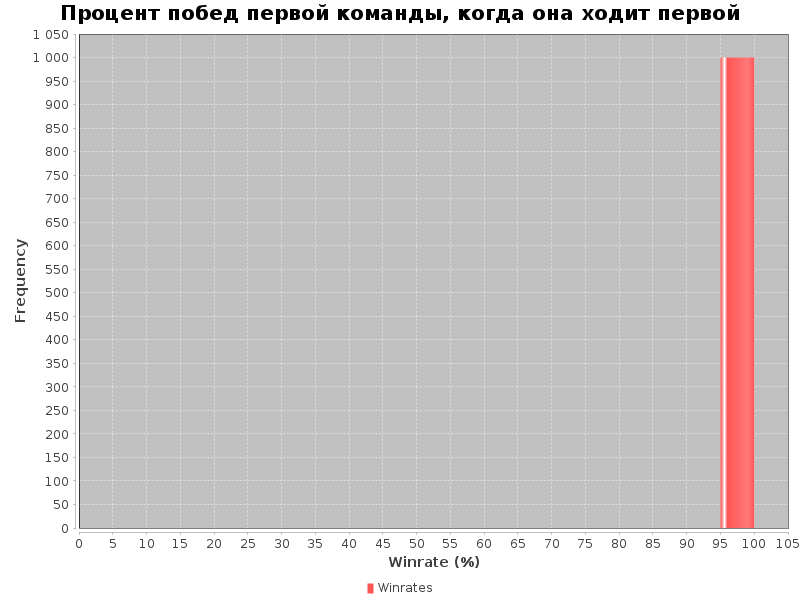
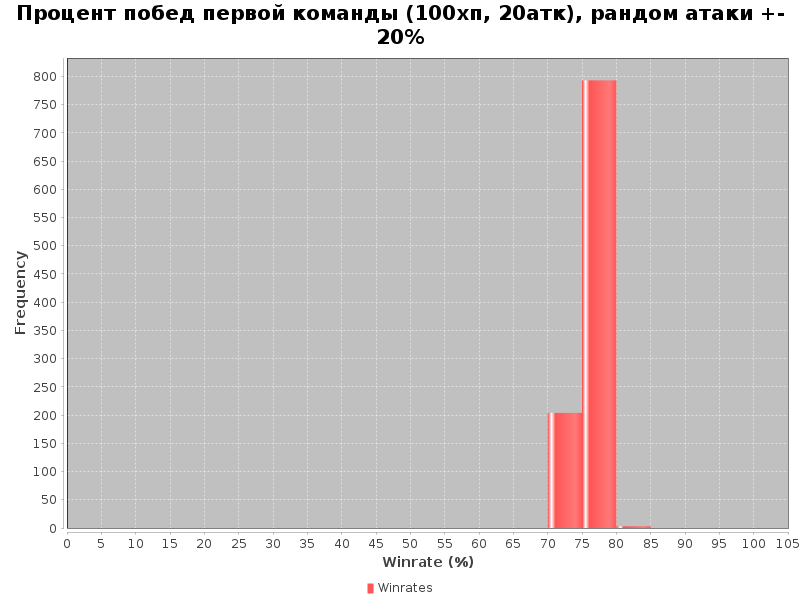
[NF] add attack rnd

diff --git a/src/main/java/ru/homyakin/seeker/game/battle/v4/BattlePersonage.java b/src/main/java/ru/homyakin/seeker/game/battle/v4/BattlePersonage.java
@@ -1,5 +1,7 @@
 package ru.homyakin.seeker.game.battle.v4;
 
+import ru.homyakin.seeker.utils.RandomUtils;
+
 public class BattlePersonage implements Cloneable {
     private final long id;
     private int health;
@@ -12,7 +14,24 @@ public class BattlePersonage implements Cloneable {
     }
 
     public void dealDamageToPersonage(BattlePersonage enemy) {
-        enemy.takeDamage(attack);
+        int damage = (int) (
+            attack
+                * randomizeAttackBonus()
+                //* critMultiplier()
+        );
+        enemy.takeDamage(damage);
+    }
+
+    private double randomizeAttackBonus() {
+        return 1 + RandomUtils.getInInterval(-ATTACK_RND, ATTACK_RND) / 100.0;
+    }
+
+    private double critMultiplier() {
+        if (RandomUtils.processChance(CRIT_CHANCE)) {
+            return CRIT_MULTIPLIER;
+        } else {
+            return 1.0;
+        }
     }
 
     public void takeDamage(int damage) {
@@ -35,4 +54,8 @@ public class BattlePersonage implements Cloneable {
     public BattlePersonage clone() {
         return new BattlePersonage(id, health, attack);
     }
+
+    private static final int CRIT_CHANCE = 20;
+    private static final double CRIT_MULTIPLIER = 1.5;
+    private static final int ATTACK_RND = 20;
 }

diff --git a/src/test/java/ru/homyakin/seeker/game/battle/v4/BattleTest.java b/src/test/java/ru/homyakin/seeker/game/battle/v4/BattleTest.java
@@ -1,5 +1,6 @@
 package ru.homyakin.seeker.game.battle.v4;
 
+import org.junit.jupiter.api.Disabled;
 import org.junit.jupiter.api.Test;
 import ru.homyakin.seeker.test_utils.TestRandom;
 import ru.homyakin.seeker.utils.RandomUtils;
@@ -24,13 +25,14 @@ public class BattleTest {
         when(randomUtils.getInIntervalNotStatic(1, 2)).thenReturn(1);
         List<Double> winrates = calcFirstTeamWinrates();
         writeHistogramPng(
-            "Процент побед первой команды, когда она ходит первой",
+            "Процент побед первой команды (100хп, 20атк), рандом атаки +-20%",
             winrates,
             "first_team_first_histogram.png"
         );
     }
 
     @Test
+    @Disabled
     public void firstTeamSecond() {
         when(randomUtils.getInIntervalNotStatic(1, 2)).thenReturn(2);
         List<Double> winrates = calcFirstTeamWinrates();
